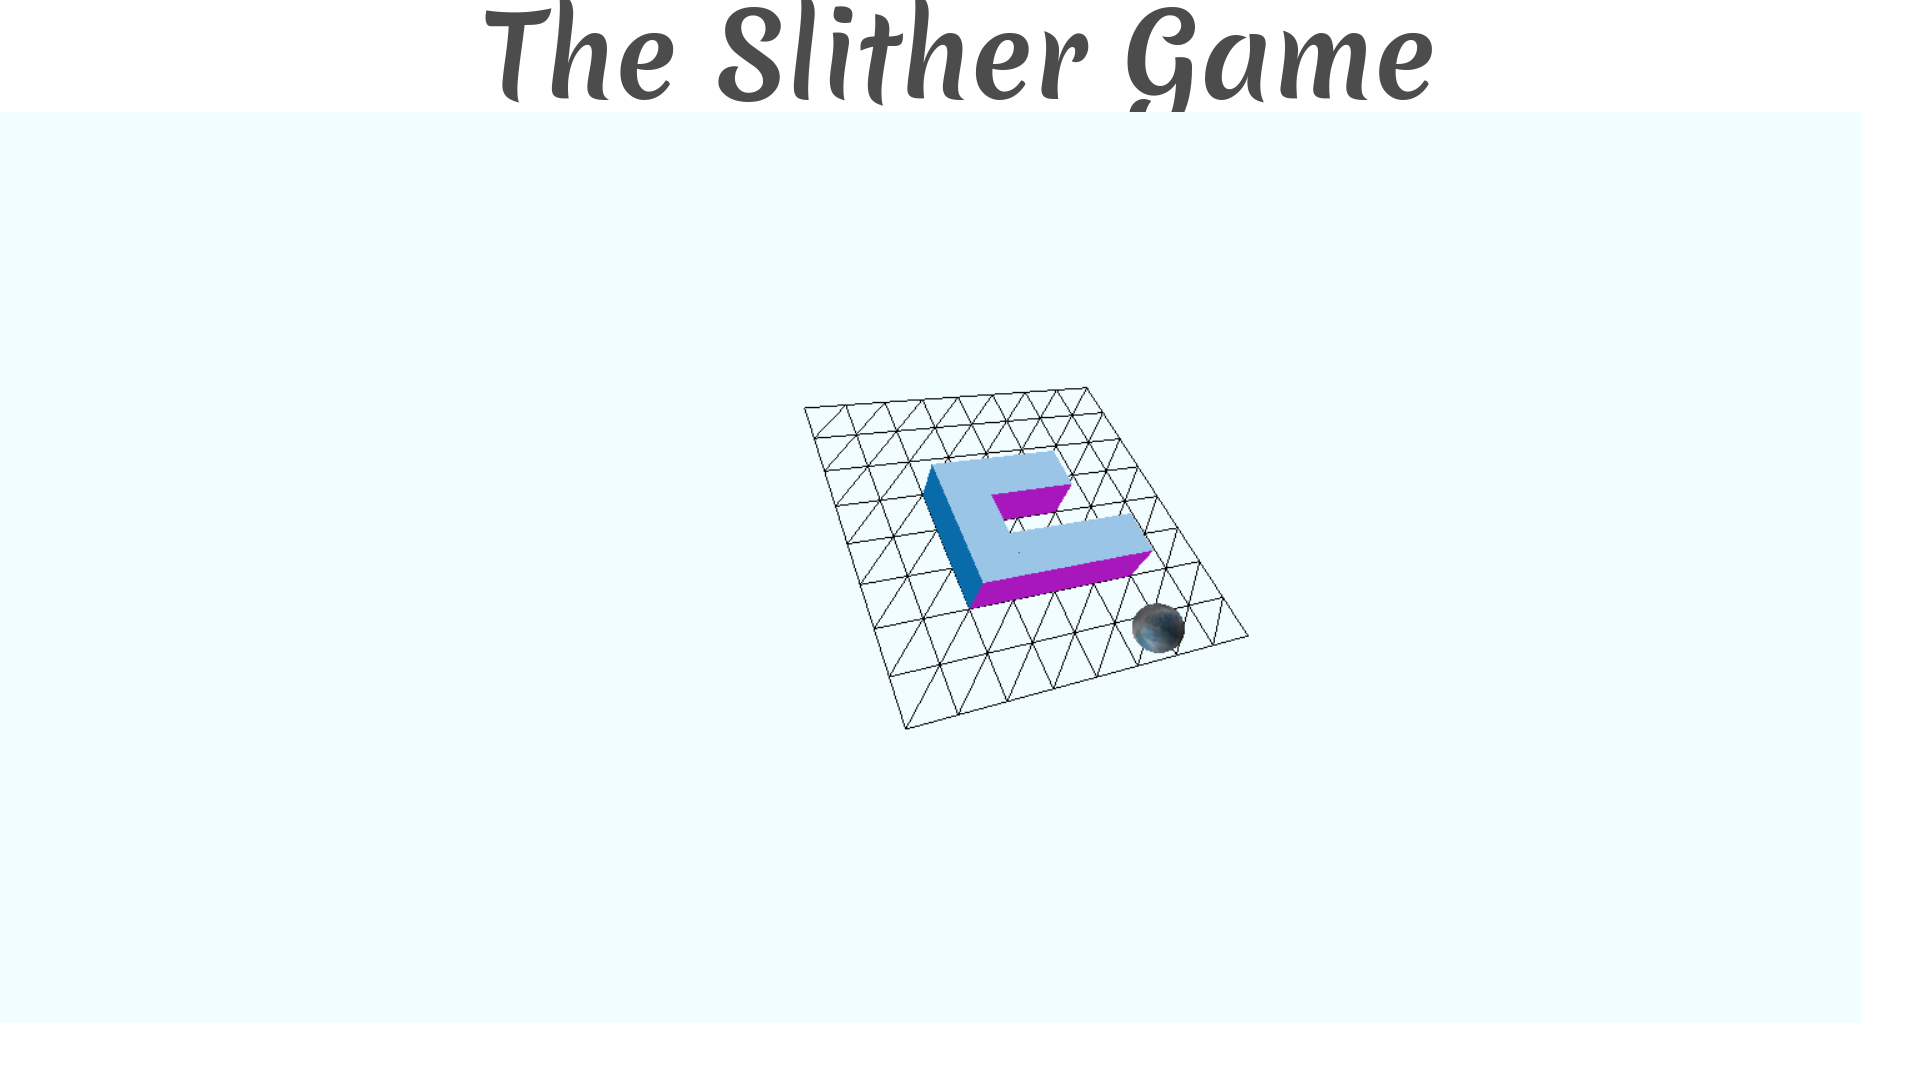
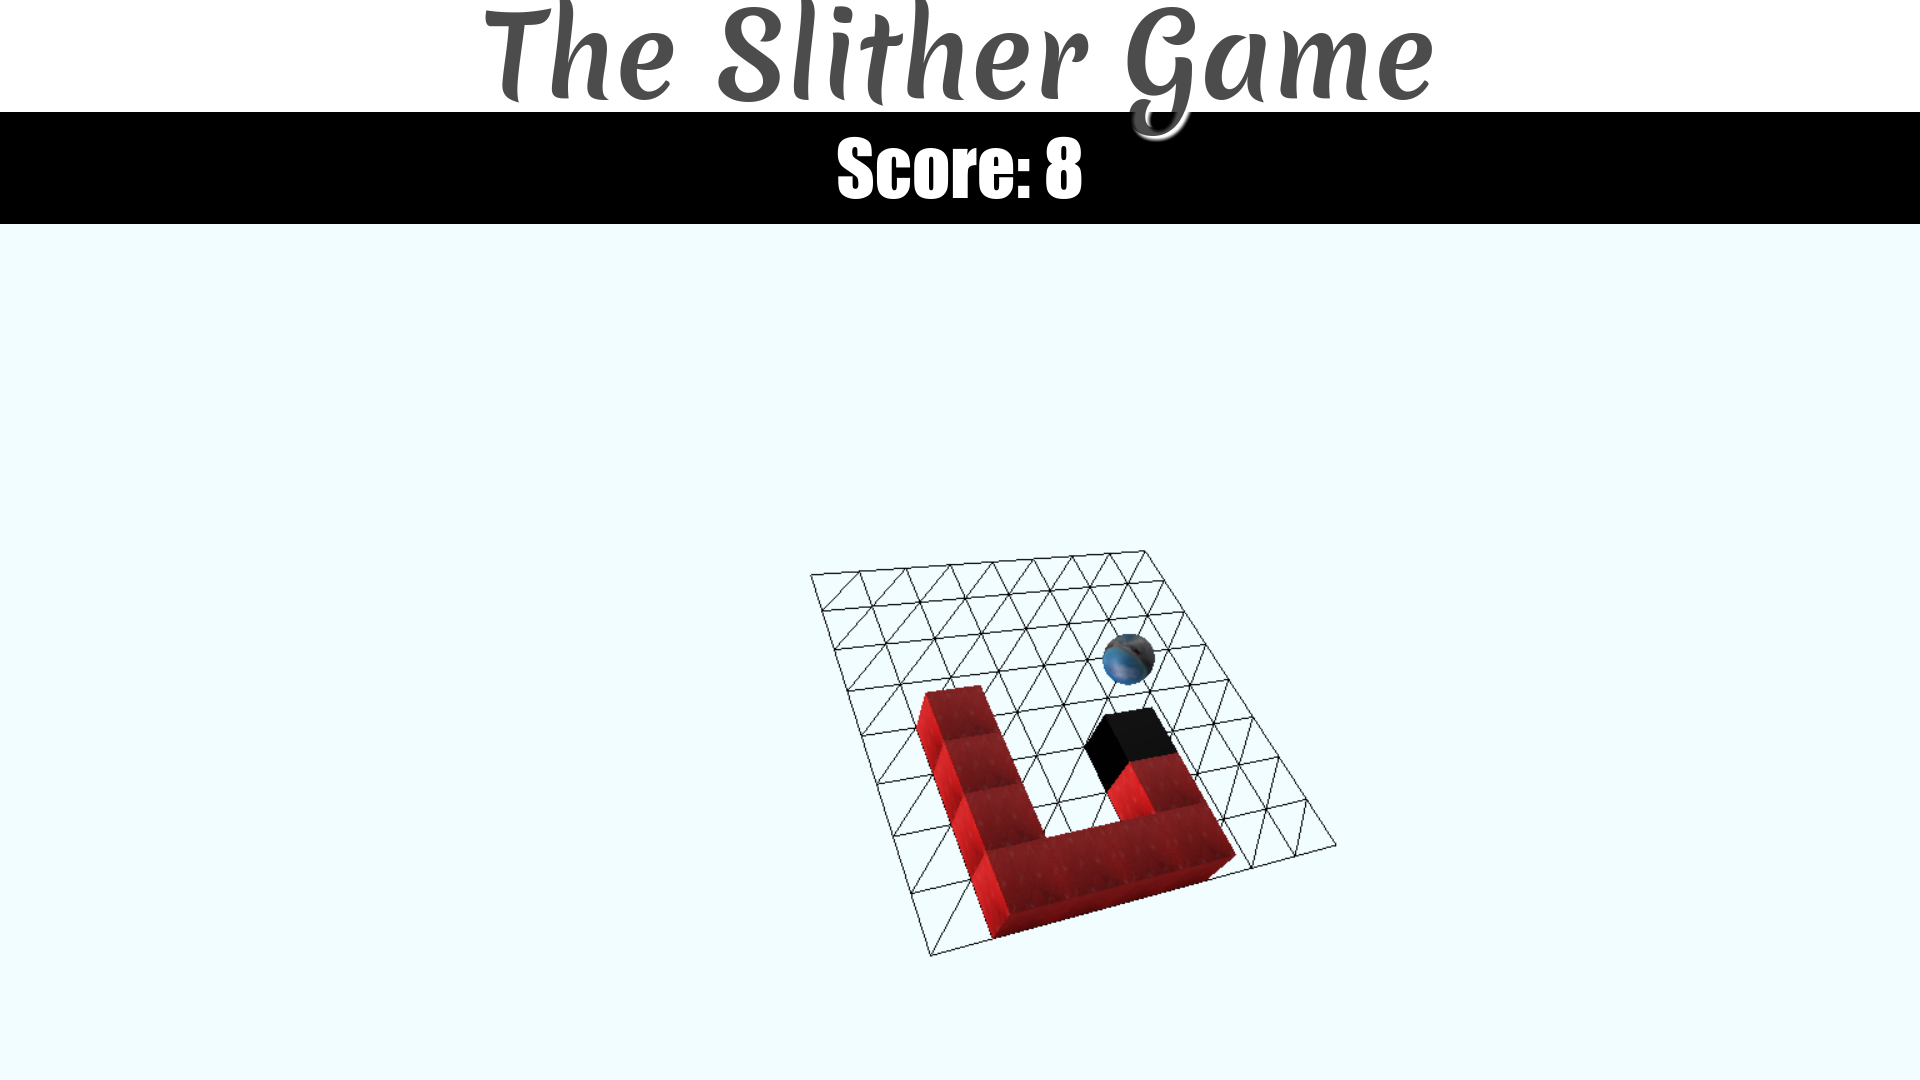
update: screenshot

Changed region(s): [[0.0, 0.0917, 1.0, 0.2139], [0.4375, 0.3667, 0.6875, 0.8861]]

diff --git a/js/game.js b/js/game.js
@@ -15,7 +15,7 @@ food.y = 1;
 var direction = "up";
 var cside = 1;
 var geometry = new THREE.BoxGeometry( cside, cside, cside );
-var material = new THREE.MeshNormalMaterial();
+var material = new THREE.MeshPhongMaterial( { map: THREE.ImageUtils.loadTexture('images/snake.jpg',THREE.SphericalRefractionMapping) } );
 var cube = new THREE.Mesh( geometry, material );
 cube.position.x += cside / 2;
 cube.position.y += cside / 2;
@@ -69,7 +69,9 @@ directionalLight.position.set( -1, 0, 0 );
 scene.add( directionalLight );
 var queue = new Dequeue();
 
-firstcube = cube.clone();
+var geometry = new THREE.BoxGeometry( cside, cside, cside );
+var material = new THREE.MeshPhongMaterial( { map: THREE.ImageUtils.loadTexture('images/snake.jpg',THREE.SphericalRefractionMapping) } );
+var firstcube = new THREE.Mesh( geometry, material );
 scene.add( firstcube );
 queue.push(firstcube);
 var gameon = true;
@@ -106,6 +108,8 @@ var render = function () {
 	}
 
   copy = cube.clone();
+  copy.material = new THREE.MeshPhongMaterial( { map: THREE.ImageUtils.loadTexture('images/head.jpg',THREE.SphericalRefractionMapping) } ); 
+  copy.material.map.needsUpdate = true;
   copy.position.x += pos.x;
   copy.position.y += pos.y;
   queue.push(copy);
@@ -121,6 +125,8 @@ var render = function () {
   else
   	{
   		score++;
+  		document.getElementById("score").innerHTML = "Score: " + score;
+
   		console.log("Score: " + score);
   		newloc = getFreeLocation(queue);
   		food.x = newloc.x;

diff --git a/index.html b/index.html
@@ -16,7 +16,9 @@
     <body>
 
       <div class="front fancy centre">The Slither Game</div>
-      
+      <div style="text-align: center; background-color: black">
+      <span class="centre front" id="score" style="font-family: Impact; font-size: 60px ; ;text-align: center; display: inline-block; background-color:black; color: white">Score: 0</span>
+      </div>
       <script src="js/Dequeue.js"></script>
       <script src="js/Keyboard.js"></script>
       <script src="js/three.js"></script>
